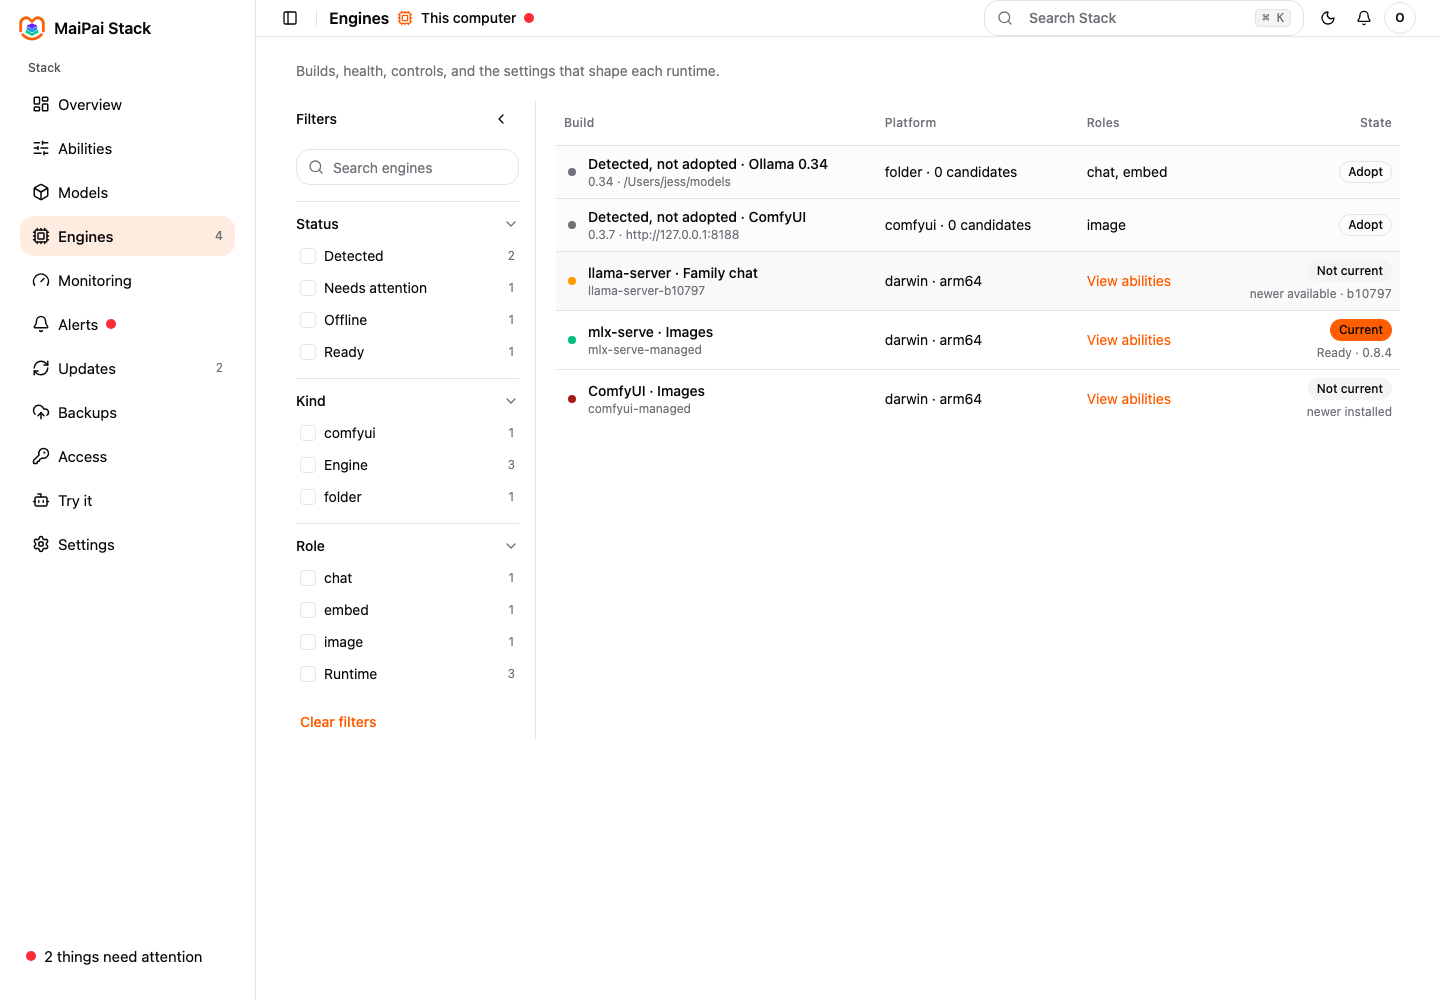
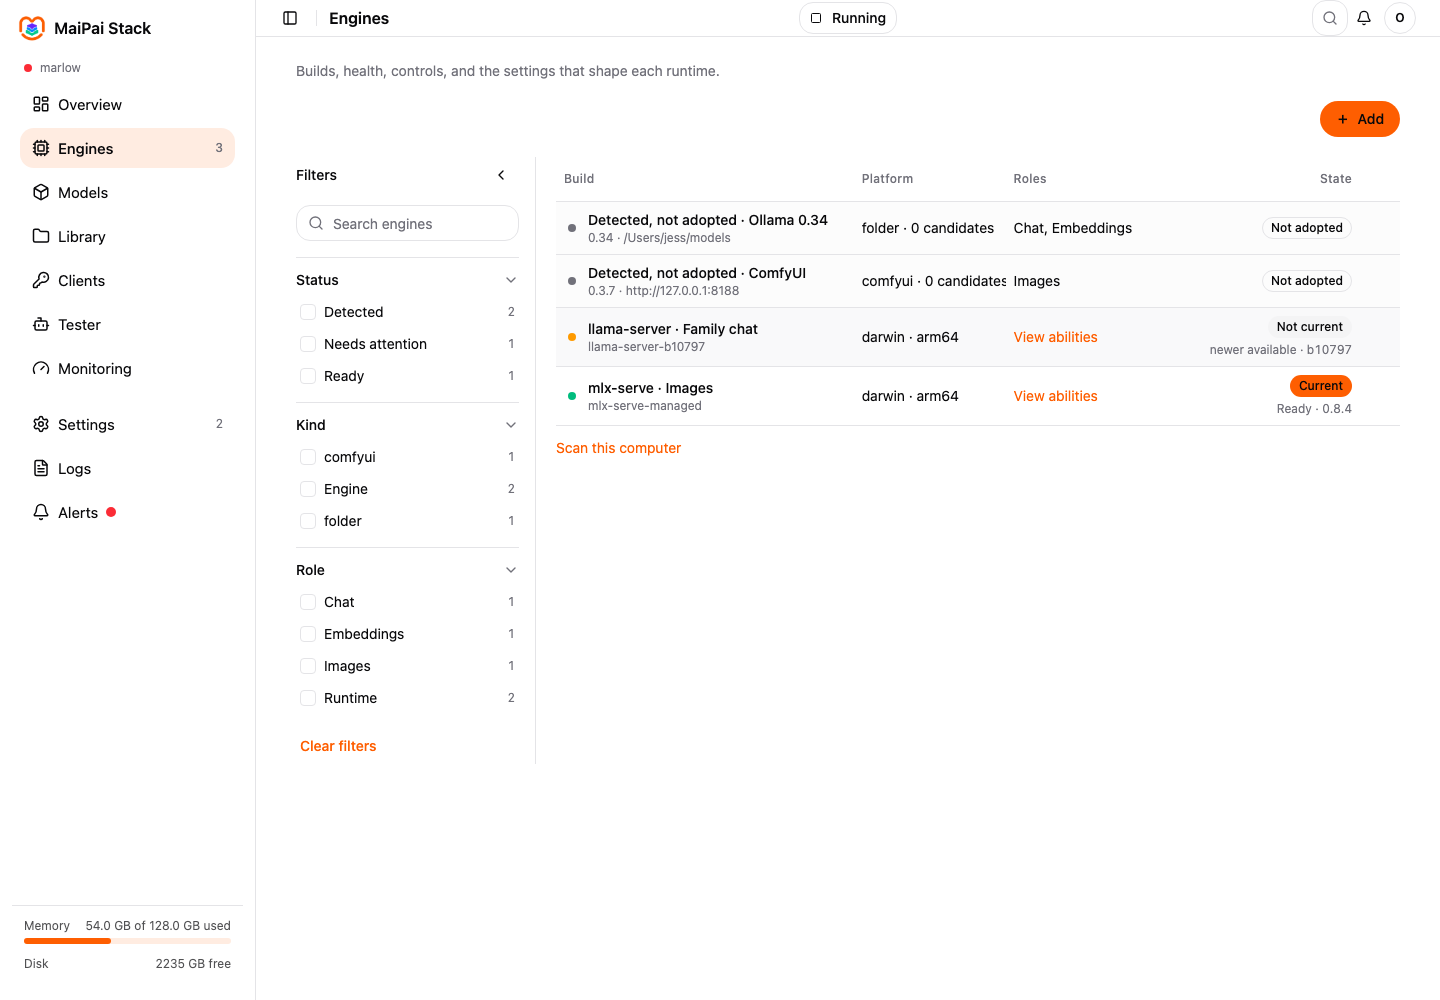
Console: the first run’s six visible defects

diff --git a/frontend/src/pages/EnginesPage.tsx b/frontend/src/pages/EnginesPage.tsx
@@ -53,7 +53,7 @@ export function EnginesPage({ Frame }: { Frame: SectionFrameComponent }) {
   function selectAt(index: number) { if (!engines.data?.engines.length) return; const next = Math.max(0, Math.min(engines.data.engines.length - 1, index)); setSelected(next); setPanelOpen(true); const engine = engines.data.engines[next]; setConfiguredName(engine ? engineName(engine) : null); }
   async function panelAction(action: string) { const engine = engines.data?.engines[selected]; if (!engine) return; const name = engineName(engine); if (action === "logs") return; if (action === "update") return control(`/stack/v1/engines/${name}/current`, { tag: engine.newestTag }); if (action.startsWith("current:")) return control(`/stack/v1/engines/${name}/current`, { tag: action.slice(8) }); if (action === "remove") return api.delete(`/stack/v1/engines/${name}/builds/${engineTag(engine)}`).then(() => engines.refetch()); return control(`/stack/v1/engines/${name}/${action}`); }
 
-  const rows = useMemo<EngineRow[]>(() => [...(detectedStores.data?.detected ?? []).map((store) => ({ kind: "detected" as const, store })), ...(engines.data?.engines ?? []).map((engine) => ({ kind: "engine" as const, engine }))], [detectedStores.data?.detected, engines.data?.engines]);
+  const rows = useMemo<EngineRow[]>(() => [...(detectedStores.data?.detected ?? []).map((store) => ({ kind: "detected" as const, store })), ...(engines.data?.engines ?? []).filter((engine) => engine.matchesThisMachine).map((engine) => ({ kind: "engine" as const, engine }))], [detectedStores.data?.detected, engines.data?.engines]);
   const roleLabel = useCallback((id: string) => labelForRole(id, roles.data?.roles), [roles.data]);
   const filterAccessors = useMemo(() => ({
     status: (row: EngineRow) => row.kind === "detected" ? "Detected" : engineStatus(row.engine) === "attention" ? "Needs attention" : engineStatus(row.engine) === "offline" ? "Offline" : "Ready",
@@ -76,7 +76,7 @@ export function EnginesPage({ Frame }: { Frame: SectionFrameComponent }) {
 
   return <Frame title="Engines" description="Builds, health, controls, and the settings that shape each runtime."><div className={phone ? "hidden" : "flex justify-end"}><Button onClick={() => setAddOpen(true)}><span aria-hidden="true">＋</span>Add</Button></div><ScanStatus scan={scanResult} /><ThingsPage filter={{ search: { value: filterSearch, onChange: setFilterSearch, placeholder: "Search engines" }, groups: filterGroups, onClear: () => { setFilterSearch(""); setFilterSelections({}); } }} table={<ThingsTable<EngineRow>
     columns={[
-      { key: "build", header: "Build", width: "36%", render: (row) => row.kind === "detected" ? <div><p className="font-medium">Detected, not adopted · {row.store.name}</p><p className="text-xs text-muted-foreground">{row.store.version} · {row.store.path ?? row.store.where}</p></div> : <div><p className="font-medium">{row.engine.label}</p><p className="text-xs text-muted-foreground">{row.engine.id}</p></div> },
+      { key: "build", header: "Build", render: (row) => row.kind === "detected" ? <div><p className="font-medium">Detected, not adopted · {row.store.name}</p><p className="text-xs text-muted-foreground">{row.store.version} · {row.store.path ?? row.store.where}</p></div> : <div><p className="font-medium">{row.engine.label}</p><p className="text-xs text-muted-foreground">{row.engine.id}</p></div> },
       { key: "platform", header: "Platform", width: "18%", render: (row) => row.kind === "detected" ? `${row.store.kind} · ${row.store.candidateModels ?? 0} candidates` : `${row.engine.platform} · ${row.engine.arch}` },
       { key: "roles", header: "Roles", width: "22%", render: (row) => row.kind === "detected" ? (row.store.couldHold ?? row.store.roles ?? []).map(roleLabel).join(", ") || "Unassigned" : linkCell("/abilities", "View abilities") },
       { key: "state", header: "State", width: "20%", align: "right", render: (row) => row.kind === "detected" ? <Badge variant="outline">Not adopted</Badge> : <div><Badge variant={row.engine.notCurrent ? "secondary" : "default"}>{row.engine.state === "current" ? "Current" : "Not current"}</Badge><p className="mt-1 text-xs text-muted-foreground">{row.engine.stateReason ?? "Ready"}{row.engine.currentTag && ` · ${row.engine.currentTag}`}</p>{row.engine.needsRestart && <p className="mt-1 text-xs font-medium text-primary">Needs restart</p>}</div> },

diff --git a/frontend/src/kit/blocks/dashboard/components/site-header.tsx b/frontend/src/kit/blocks/dashboard/components/site-header.tsx
@@ -15,5 +15,5 @@ const Play = getIcon("Play");
 export function SiteHeader({ title, onSearch, runState = "running", onRunStateChange }: { title: string; onSearch: () => void; runState?: "running" | "pausing" | "paused"; onRunStateChange?: () => void }) {
   const [confirm, setConfirm] = React.useState(false);
   async function toggleRunState(): Promise<void> { const next = runState === "paused" ? "running" : "paused"; await api.post("/stack/v1/run-state", { state: next }); setConfirm(false); onRunStateChange?.(); }
-  return <header className="sticky top-0 z-20 flex min-h-(--header-height) shrink-0 items-center border-b bg-card"><div className="grid w-full grid-cols-[1fr_auto_1fr] items-center gap-2 px-2 sm:px-4 lg:px-6"><div className="flex min-w-0 items-center gap-2"><SidebarTrigger className="-ml-1" /><Separator orientation="vertical" className="mx-1 data-[orientation=vertical]:h-4" /><h1 className="min-w-0 truncate text-base font-semibold">{title}</h1></div><div className="hidden items-center justify-self-center sm:flex">{confirm ? <div className="flex items-center gap-2 text-sm"><span>Pause anyway?</span><Button size="sm" onClick={() => void toggleRunState()}>Pause</Button><Button size="sm" variant="ghost" onClick={() => setConfirm(false)}>Cancel</Button></div> : <Button variant="outline" size="sm" className={runState === "paused" ? "border-amber-500 text-amber-700" : ""} onClick={() => runState === "running" ? setConfirm(true) : void toggleRunState()} aria-label={runState === "paused" ? "Resume Stack" : "Pause Stack"}>{runState === "pausing" ? "Pausing…" : runState === "paused" ? <><Play className="mr-1 size-3" />Paused</> : <><Pause className="mr-1 size-3" />Running</>}</Button>}</div><div className="flex items-center justify-self-end"><Button aria-label="Search Stack" title="Search Stack (⌘K)" className="size-9 shrink-0 justify-center p-0 text-muted-foreground" variant="outline" onClick={onSearch}><SearchIcon className="size-4" /><span className="sr-only">Search Stack</span></Button><div className="flex items-center gap-1"><NotificationsBell /><ProfileMenu /></div></div></div></header>;
+  return <header className="sticky top-0 z-20 flex min-h-(--header-height) shrink-0 items-center overflow-visible border-b bg-card"><div className="grid w-full grid-cols-[1fr_auto_1fr] items-center gap-2 px-2 sm:px-4 lg:px-6"><div className="flex min-w-0 items-center gap-2"><SidebarTrigger className="-ml-1" /><Separator orientation="vertical" className="mx-1 data-[orientation=vertical]:h-4" /><h1 className="min-w-0 truncate text-base font-semibold">{title}</h1></div><div className="hidden items-center justify-self-center sm:flex">{confirm ? <div className="flex items-center gap-2 text-sm"><span>Pause anyway?</span><Button size="sm" onClick={() => void toggleRunState()}>Pause</Button><Button size="sm" variant="ghost" onClick={() => setConfirm(false)}>Cancel</Button></div> : <Button variant="outline" size="sm" className={runState === "paused" ? "border-amber-500 text-amber-700" : ""} onClick={() => runState === "running" ? setConfirm(true) : void toggleRunState()} aria-label={runState === "paused" ? "Resume Stack" : "Pause Stack"}>{runState === "pausing" ? "Pausing…" : runState === "paused" ? <><Play className="mr-1 size-3" />Paused</> : <><Pause className="mr-1 size-3" />Running</>}</Button>}</div><div className="flex items-center justify-self-end overflow-visible"><Button aria-label="Search Stack" title="Search Stack (⌘K)" className="size-9 shrink-0 justify-center p-0 text-muted-foreground" variant="outline" onClick={onSearch}><SearchIcon className="size-4" /><span className="sr-only">Search Stack</span></Button><div className="flex items-center gap-1 overflow-visible"><NotificationsBell /><ProfileMenu /></div></div></div></header>;
 }

diff --git a/frontend/src/pages/DashboardShell.tsx b/frontend/src/pages/DashboardShell.tsx
@@ -100,13 +100,13 @@ export function DashboardShell() {
   useEffect(() => { const update = () => setPhone(window.innerWidth < 640); update(); window.addEventListener("resize", update); return () => window.removeEventListener("resize", update); }, []);
   const title = sections.find((item) => sectionPaths[item] === location.pathname) ?? (location.pathname.startsWith("/settings") ? "Settings" : "Overview");
   const repairRows = repairs.data?.repairs ?? []; const roleRows = roles.data?.roles ?? [];
-  const enginesToCheck = engines.data?.engines?.filter((engine) => engine.state !== "current") ?? [];
+  const enginesToCheck = engines.data?.engines?.filter((engine) => engine.matchesThisMachine && engine.state !== "current") ?? [];
   const detectedToAdopt = (detected.data?.detected ?? []).filter((item) => !item.adopted && !item.forgotten).length;
   const engineCount = enginesToCheck.length + detectedToAdopt;
   const updateCount = updates.data ? ((updates.data.app?.available ?? null) != null ? 1 : 0) + ((updates.data.engines?.available ?? null) != null ? 1 : 0) + ((updates.data.models?.available ?? null) != null ? 1 : 0) : 0;
   const alertCount = health.data?.health?.filter((item) => item.severity === "critical" || item.severity === "error").length ?? 0;
   const alertSeverity = roleRows.some((role) => role.state === "stopped") ? "critical" : (health.data?.health ?? []).reduce<"critical" | "error" | "warning" | null>((worst, item) => { const rank: Record<string, number> = { warning: 1, error: 2, critical: 3 }; const itemRank = rank[item.severity] ?? 0; const worstRank = worst ? rank[worst] ?? 0 : 0; return itemRank > worstRank ? item.severity : worst; }, null);
-  const engineTooltip = engineCount === 0 ? "Engines" : `${engineCount} ${engineCount === 1 ? "engine" : "engines"} need${engineCount === 1 ? "s" : ""} attention`;
+  const engineTooltip = engineCount === 0 ? "Engines" : `${engineCount} ${engineCount === 1 ? "engine needs" : "engines need"} attention`;
   const updateTooltip = updateCount === 0 ? "Updates" : `${updateCount} update${updateCount === 1 ? "" : "s"} available`;
   const alertTooltip = alertCount === 0 ? "Alerts" : `Alerts: ${alertSeverity === "critical" ? "1 critical" : alertSeverity === "error" ? `${alertCount} error${alertCount === 1 ? "" : "s"}` : `${alertCount} warning${alertCount === 1 ? "" : "s"}`}`;
   const routes = <Routes><Route path="/" element={<BoardPageProxy />} /><Route path="/abilities" element={<AbilitiesProxy />} /><Route path="/models/:id" element={<PhoneModelRoute />} /><Route path="/engines/:id" element={<PhoneEngineRoute />} /><Route path="/models" element={<ModelsPage Frame={SectionFrame} />} /><Route path="/engines" element={<EnginesPage Frame={SectionFrame} />} /><Route path="/monitoring" element={<MonitoringPage />} /><Route path="/library" element={<LibraryPage Frame={SectionFrame} />} /><Route path="/alerts" element={<AlertsPage Frame={SectionFrame} />} /><Route path="/logs" element={<LogsPage />} /><Route path="/access" element={<AccessPage Frame={SectionFrame} />} /><Route path="/try" element={<TryItPage />} /><Route path="/updates" element={<Navigate to="/settings/updates" replace />} /><Route path="/backups" element={<Navigate to="/settings/backups" replace />} /><Route path="/settings/*" element={<SettingsPage Frame={SectionFrame} />} /><Route path="*" element={<BoardPageProxy />} /></Routes>;

diff --git a/frontend/src/pages/overview/FactsColumn.tsx b/frontend/src/pages/overview/FactsColumn.tsx
@@ -8,6 +8,7 @@ import { osPlain } from "@/lib/plainHardware";
 import { getIcon } from "@/kit/icons";
 import { Button } from "@/kit/ui/button";
 import { Card, CardContent, CardHeader, CardTitle } from "@/kit/ui/card";
+import { RelativeTime } from "@/kit/ui/relative-time";
 import type { FactsProps } from "./types";
 
 const Cpu = getIcon("Cpu");
@@ -24,7 +25,7 @@ export function FactsColumn({ hardware, healthz, budget, updates, counts, onSpee
   const latestComplete = latest.data && Array.isArray((latest.data as CheckResult).results) ? (latest.data as CheckResult) : null;
   const shown = latestComplete;
   const running = latest.data && (latest.data as { state?: string }).state === "running";
-  const sentence = running ? "Checking your Stack..." : shown ? `Checked ${Math.max(0, Math.round((Date.now() - Date.parse(shown.at)) / 60_000))}m ago, ${shown.ok ? "all good" : "needs attention"}.` : "Not checked yet.";
+  const sentence = running ? "Checking your Stack..." : shown ? <><span>Checked </span><RelativeTime at={shown.at} /><span>, {shown.ok ? "all good" : "needs attention"}.</span></> : "Not checked yet.";
   const facts = [["Uptime", healthz ? uptime(healthz.uptimeSeconds) : "Loading"], ["Memory budget", budget ? bytes(budget.capBytes) : "Loading"], ["Free disk", hardware ? `${bytes(hardware.freeDiskBytes)} free` : "Loading"], ["Operating system", hardware ? osPlain(hardware.osVersion) : "Loading"]];
   return <Card data-widget><CardHeader className="pb-3"><CardTitle className="flex items-center gap-2 text-base"><Cpu className="size-5 text-primary" />This computer</CardTitle><div className="flex flex-wrap items-center gap-2 text-sm"><Link className="text-primary" to="/engines">{counts.engines} engines</Link><span aria-hidden="true" className="text-muted-foreground">·</span><Link className="text-primary" to="/models">{counts.models} models</Link><span aria-hidden="true" className="text-muted-foreground">·</span><Link className="text-primary" to="/access">{counts.clients} clients</Link></div></CardHeader><CardContent className="space-y-3">{facts.map(([label, value]) => <div className="flex items-center justify-between gap-3 border-t pt-3 text-sm" key={label}><span className="text-muted-foreground">{label}</span><span className="text-right font-medium tabular-nums">{value}</span></div>)}<div className="flex items-center justify-between gap-3 border-t pt-3 text-sm"><span>{updates?.app?.available ? "Update available" : "Up to date"}</span><Link aria-label="View updates" title="View updates" className="text-muted-foreground hover:text-foreground" to="/updates"><History className="size-4" /></Link></div><div className="space-y-2 border-t pt-4"><Button className="w-full" variant="outline" onClick={onSpeedTest}>{speedTesting ? "Measuring..." : "Speed test"}</Button><Button className="w-full" variant="outline" onClick={() => void check()}>{checking ? "Checking..." : "Check my Stack"}</Button><div data-status-sentence className="text-sm text-muted-foreground">{sentence}</div>{shown && <div className="flex flex-wrap gap-2 text-xs" aria-label="Stack check results">{shown.results.map((result) => <span className={result.ok ? "text-emerald-700" : "text-destructive"} key={result.role}>{result.ok ? "✓" : "×"} {result.role}</span>)}</div>}</div></CardContent></Card>;
 }

diff --git a/backend/src/lib/hardware.ts b/backend/src/lib/hardware.ts
@@ -62,6 +62,16 @@ function detectIsAppleSilicon(): boolean {
   return process.platform === "darwin" && (os.cpus()[0]?.model ?? "").includes("Apple");
 }
 
+async function detectOsVersion(): Promise<string> {
+  if (process.platform !== "darwin") return os.release();
+  try {
+    const { stdout } = await execFileAsync("sw_vers", ["-productVersion"], { timeout: 2_000 });
+    return stdout.trim() || os.release();
+  } catch {
+    return os.release();
+  }
+}
+
 const DETECTION_CACHE_MS = 5_000;
 let cached: { at: number; info: HardwareInfo } | null = null;
 let now = () => Date.now();
@@ -86,7 +96,7 @@ export async function detectHardware(): Promise<HardwareInfo> {
     unifiedMemoryGb: isAppleSilicon ? totalRamGb : 0,
     cudaDevices,
     freeDiskBytes: disk.bavail * disk.bsize,
-    osVersion: os.release(),
+    osVersion: await detectOsVersion(),
   };
   cached = { at: now(), info };
   return info;
